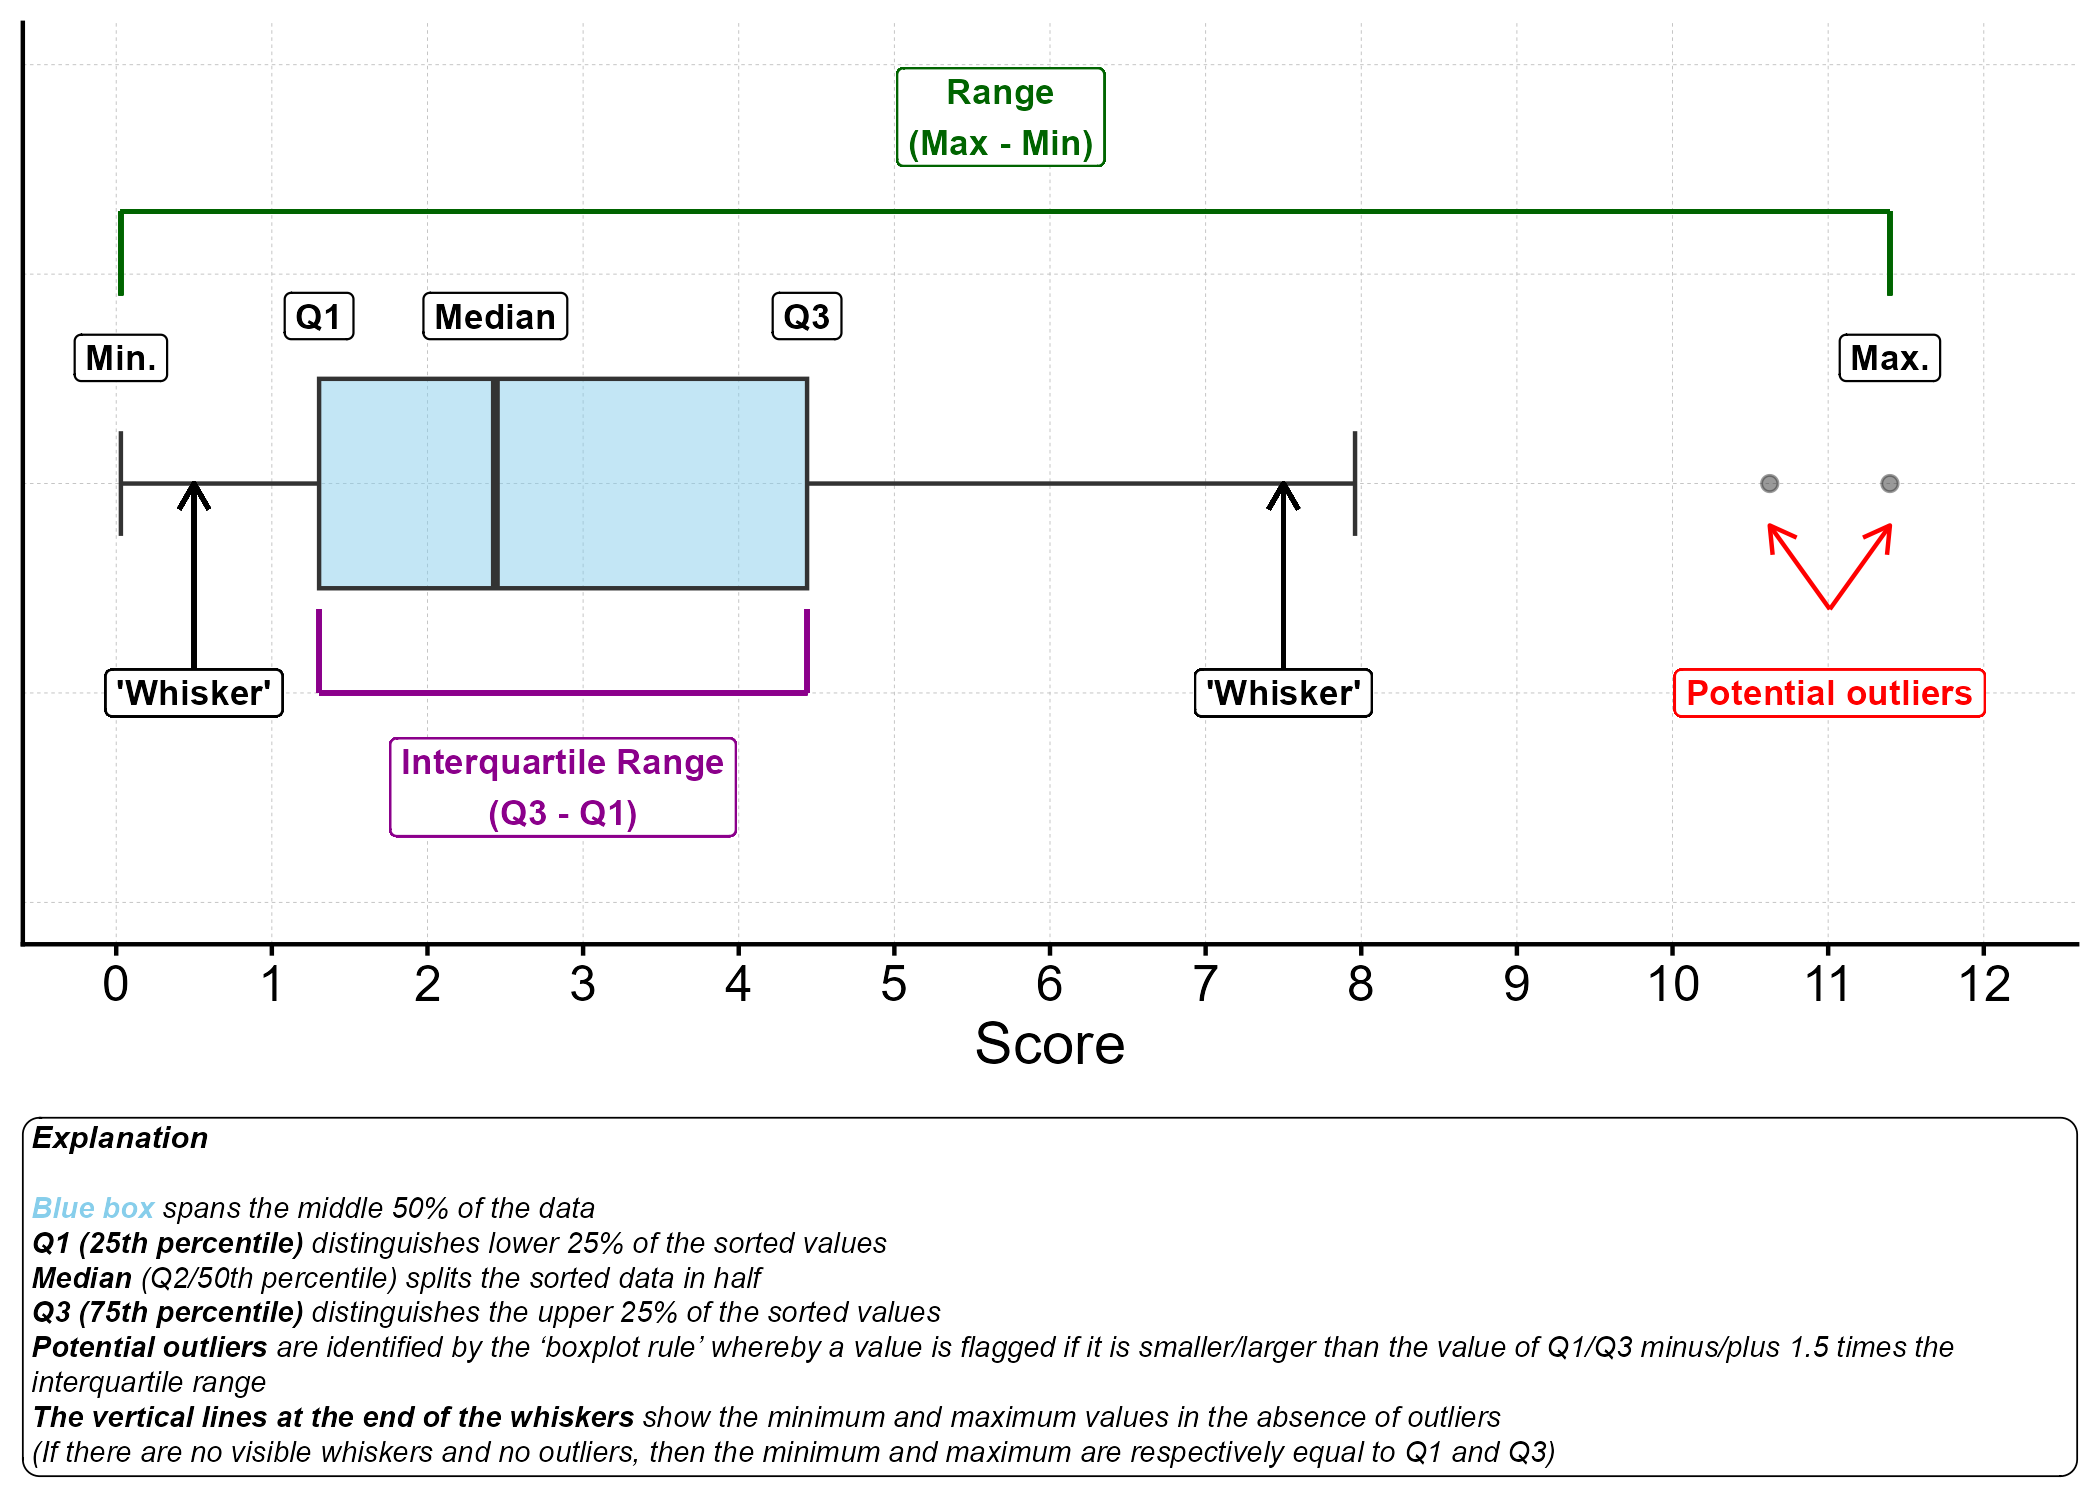
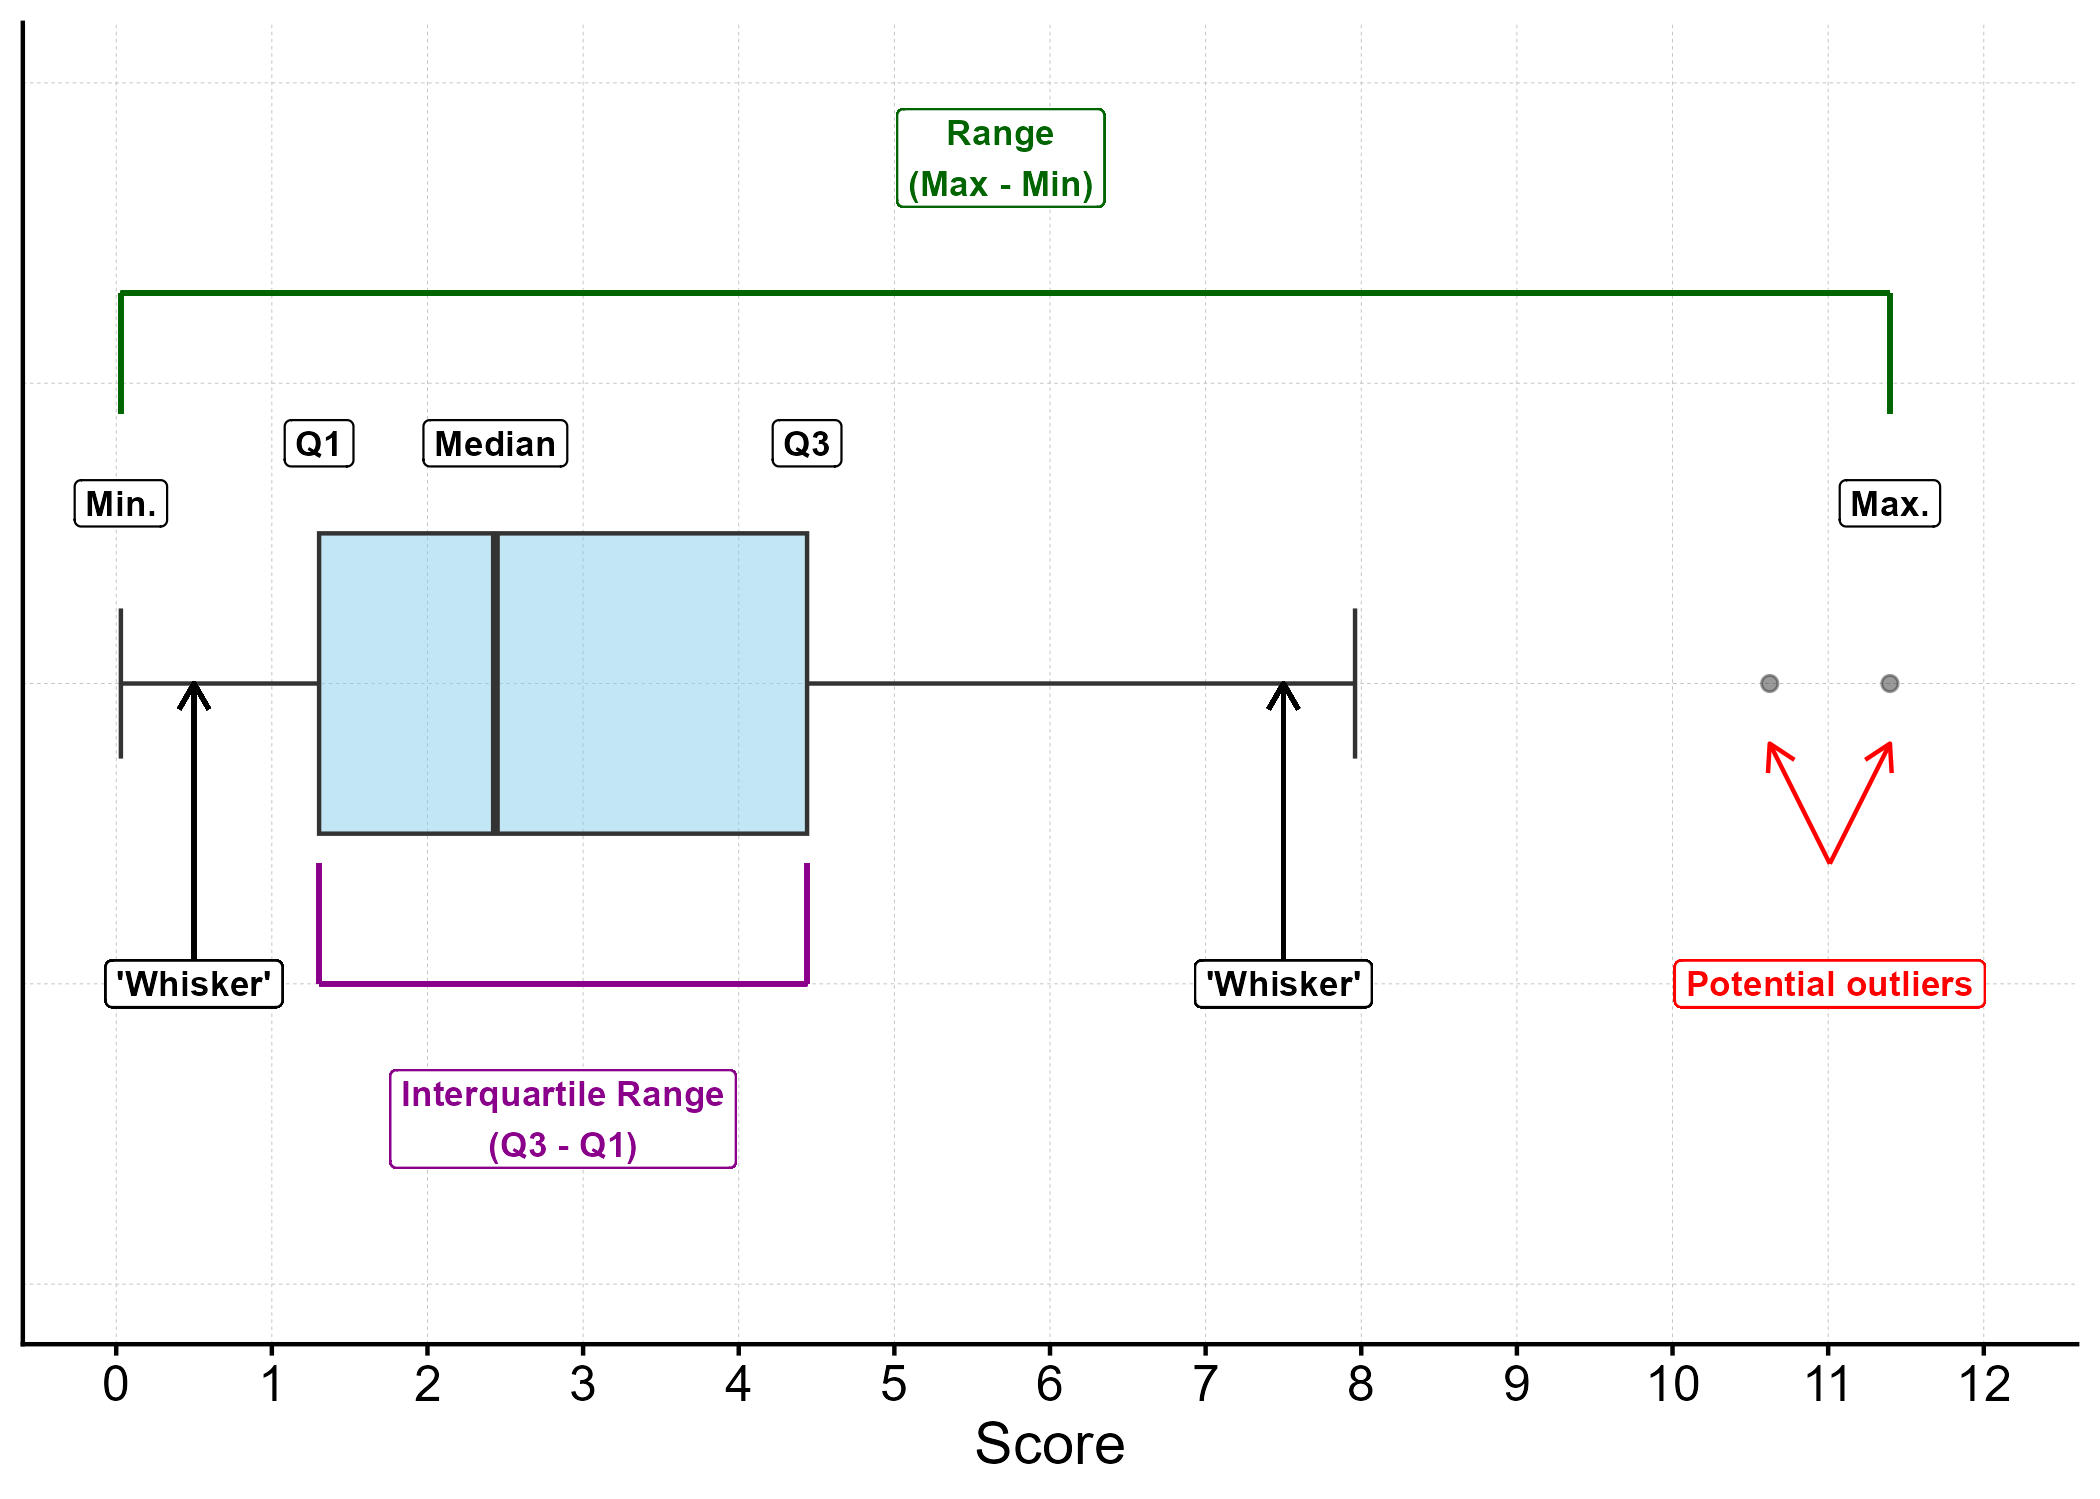
update ch2

diff --git a/docs/a2.html b/docs/a2.html
@@ -164,6 +164,42 @@ window.Quarto = {
 </li>
         <li class="sidebar-item">
   <div class="sidebar-item-container"> 
+  <a href="./t4.html" class="sidebar-item-text sidebar-link">
+ <span class="menu-text"><span class="chapter-number">4</span>&nbsp; <span class="chapter-title">ANCOVA and (between-subjects) factorial ANOVA</span></span></a>
+  </div>
+</li>
+        <li class="sidebar-item">
+  <div class="sidebar-item-container"> 
+  <a href="./t5.html" class="sidebar-item-text sidebar-link">
+ <span class="menu-text"><span class="chapter-number">5</span>&nbsp; <span class="chapter-title">ANOVAs for repeated measures and mixed designs</span></span></a>
+  </div>
+</li>
+        <li class="sidebar-item">
+  <div class="sidebar-item-container"> 
+  <a href="./t6.html" class="sidebar-item-text sidebar-link">
+ <span class="menu-text"><span class="chapter-number">6</span>&nbsp; <span class="chapter-title">Correlation and bivariate regression</span></span></a>
+  </div>
+</li>
+        <li class="sidebar-item">
+  <div class="sidebar-item-container"> 
+  <a href="./t7.html" class="sidebar-item-text sidebar-link">
+ <span class="menu-text"><span class="chapter-number">7</span>&nbsp; <span class="chapter-title">Multiple regression</span></span></a>
+  </div>
+</li>
+        <li class="sidebar-item">
+  <div class="sidebar-item-container"> 
+  <a href="./t8.html" class="sidebar-item-text sidebar-link">
+ <span class="menu-text"><span class="chapter-number">8</span>&nbsp; <span class="chapter-title">Moderation and Mediation</span></span></a>
+  </div>
+</li>
+        <li class="sidebar-item">
+  <div class="sidebar-item-container"> 
+  <a href="./t9.html" class="sidebar-item-text sidebar-link">
+ <span class="menu-text"><span class="chapter-number">9</span>&nbsp; <span class="chapter-title">Principal Components Analysis (PCA) and reliability analysis</span></span></a>
+  </div>
+</li>
+        <li class="sidebar-item">
+  <div class="sidebar-item-container"> 
   <a href="./references.html" class="sidebar-item-text sidebar-link">
  <span class="menu-text">References</span></a>
   </div>

diff --git a/docs/t2.html b/docs/t2.html
@@ -293,6 +293,29 @@ window.Quarto = {
 <section id="sec-t2box" class="level3" data-number="2.4.1">
 <h3 data-number="2.4.1" class="anchored" data-anchor-id="sec-t2box"><span class="header-section-number">2.4.1</span> Boxplot</h3>
 <p><img src="./images/boxplot_uitleg.png" class="img-fluid"></p>
+<div id="nte-boxplot" class="callout callout-style-default callout-note callout-titled">
+<div class="callout-header d-flex align-content-center">
+<div class="callout-icon-container">
+<i class="callout-icon"></i>
+</div>
+<div class="callout-title-container flex-fill">
+Note&nbsp;2.1: How to interpret a boxplot
+</div>
+</div>
+<div class="callout-body-container callout-body">
+<ul>
+<li><span style="color:skyblue;"><strong>Blue box</strong></span> spans the middle 50% of the data</li>
+<li><strong>Q1 (25th percentile)</strong> distinguishes lower 25% of the sorted values</li>
+<li><strong>Median</strong> (Q2/50th percentile) splits the sorted dataset in half</li>
+<li><strong>Q3 (75th percentile)</strong> distinguishes the upper 25% of the sorted values</li>
+<li><strong>Potential outliers</strong> are identified by the ‘boxplot rule’ whereby a value is flagged if it is smaller/larger than the value of Q1/Q3 minus/plus 1.5 times the interquartile range</li>
+<li><strong>The vertical lines at the end of the whiskers</strong> show the minimum and maximum values in the absence of outliers
+<ul>
+<li>If there are no visible whiskers and no outliers, then the minimum and maximum are respectively equal to Q1 and Q3</li>
+</ul></li>
+</ul>
+</div>
+</div>
 </section>
 <section id="sec-t2QQ" class="level3" data-number="2.4.2">
 <h3 data-number="2.4.2" class="anchored" data-anchor-id="sec-t2QQ"><span class="header-section-number">2.4.2</span> QQ plots</h3>
